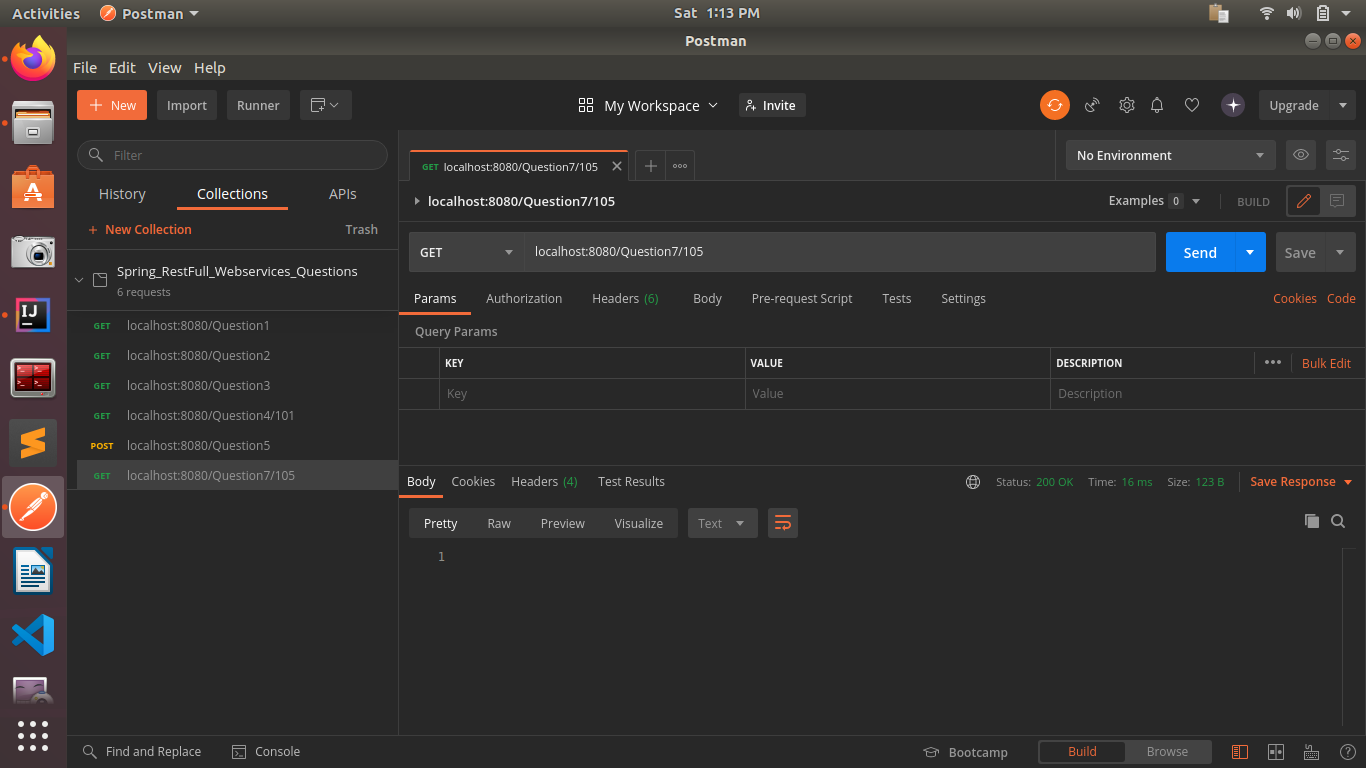
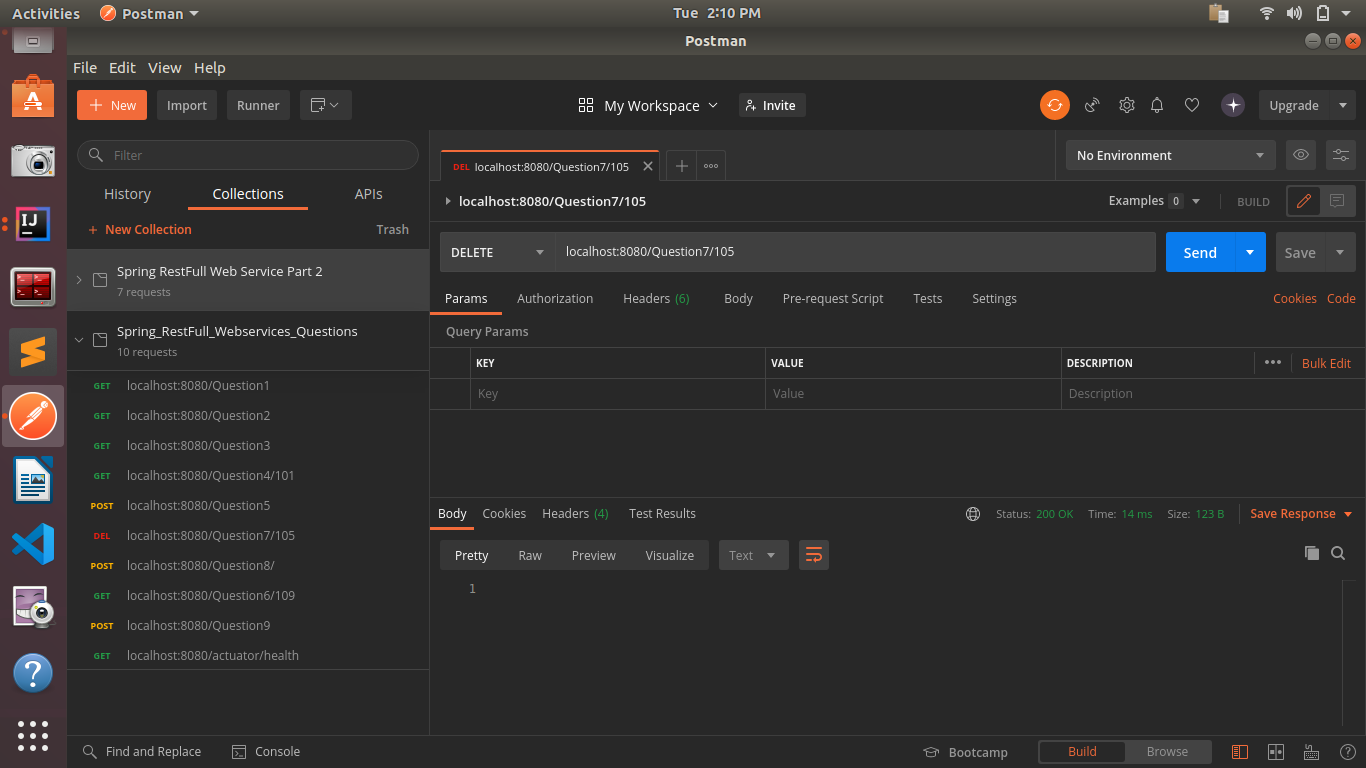
updated

diff --git a/springRestFullServiceQuestions/src/main/java/dabral/rajdeep/springRestFullServiceQuestions/EmployeeController.java b/springRestFullServiceQuestions/src/main/java/dabral/rajdeep/springRestFullServiceQuestions/EmployeeController.java
@@ -69,7 +69,7 @@ public class EmployeeController {
     /*
     7. Implement DELETE http request for Employee to delete employee
     */
-    @GetMapping("/Question7/{id}")
+    @DeleteMapping("/Question7/{id}")
     public void deleteEmployeeById(@PathVariable int id){
         System.out.println("Is Employee Deleted : "+employeeDaoService.deleteEmployeeById(id));
     }
@@ -77,7 +77,7 @@ public class EmployeeController {
     /*
     8. Implement PUT http request for Employee to update employee
     */
-    @PostMapping("/Question8")
+    @PutMapping("/Question8")
     public void updateEmployee(@RequestBody Employee employee){
         System.out.println("Is Employee Updated : "+employeeDaoService.updateEmployee(employee));
     }
